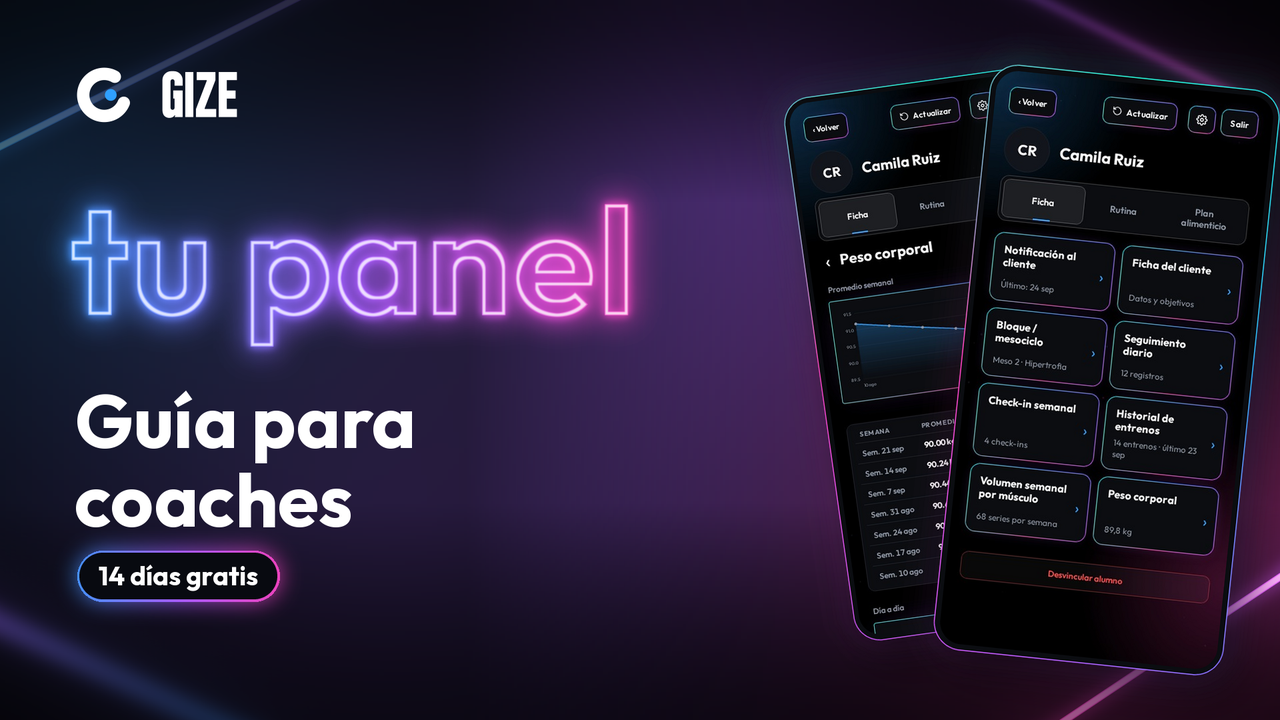
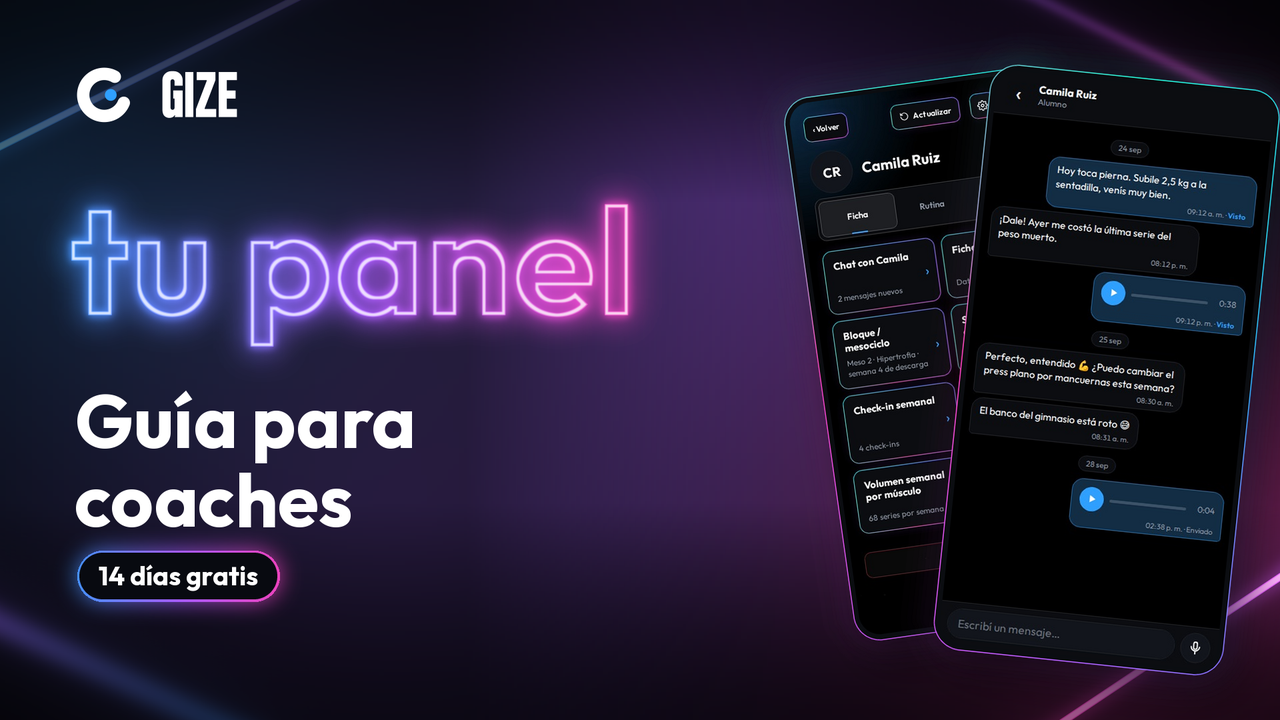
Guías de YouTube: chat coach–alumno, explicación de voz, duplicar día, bienvenida y rutinas armadas; miniaturas con el chat
Claude-Session: https://claude.ai/code/session_01XgazYx4e7Y9eR8BozjHA6b

Changed region(s): [[0.625, 0.0917, 1.0, 0.9167]]

diff --git a/piezas/youtube-guia/grabacion/mock_alumno.js b/piezas/youtube-guia/grabacion/mock_alumno.js
@@ -1,17 +1,17 @@
-// Supabase simulado para grabar el panel de coach sin tocar la base real.
+// Supabase simulado: un alumno CON coach (para mostrar el chat y la explicación de voz). Datos ficticios.
 // Datos 100 % ficticios: un coach de ejemplo y seis atletas.
 const SB = 'https://wegptuzhsrwppbknqstf.supabase.co';
 const COACH = '11111111-1111-4111-8111-111111111111';
 const CL = ['a1','a2','a3','a4','a5','a6'].map((s, i) => `2222222${i}-2222-4222-8222-22222222222${i}`);
 const NAMES = ['Lucas Fernández', 'Sofía Martínez', 'Tomás Acosta', 'Valentina Gómez', 'Nicolás Paz', 'Camila Ruiz'];
-const TODAY = new Date('2026-09-25T12:00:00');
-const iso = d => d.toISOString().slice(0, 10);
+const TODAY = new Date(); TODAY.setHours(12, 0, 0, 0);
+const iso = d => d.getFullYear() + '-' + String(d.getMonth() + 1).padStart(2, '0') + '-' + String(d.getDate()).padStart(2, '0');
 const daysAgo = n => { const d = new Date(TODAY); d.setDate(d.getDate() - n); return d; };
 
 function b64url(o) { return Buffer.from(JSON.stringify(o)).toString('base64').replace(/=+$/, '').replace(/\+/g, '-').replace(/\//g, '_'); }
 const EXP = Math.floor(Date.now() / 1000) + 3600 * 24 * 30;
-const JWT = b64url({ alg: 'HS256', typ: 'JWT' }) + '.' + b64url({ sub: COACH, role: 'authenticated', exp: EXP, aud: 'authenticated', email: 'coach@ejemplo.com' }) + '.firma';
-const USER = { id: COACH, aud: 'authenticated', role: 'authenticated', email: 'coach@ejemplo.com', created_at: '2026-08-01T10:00:00Z', app_metadata: { provider: 'email' }, user_metadata: { full_name: 'Martina Ríos', role: 'coach' }, identities: [] };
+const JWT = b64url({ alg: 'HS256', typ: 'JWT' }) + '.' + b64url({ sub: CL[0], role: 'authenticated', exp: EXP, aud: 'authenticated', email: 'lucas@ejemplo.com' }) + '.firma';
+const USER = { id: CL[0], aud: 'authenticated', role: 'authenticated', email: 'lucas@ejemplo.com', created_at: '2026-08-01T10:00:00Z', app_metadata: { provider: 'email' }, user_metadata: { full_name: 'Lucas Fernández', role: 'client' }, identities: [] };
 const SESSION = { access_token: JWT, token_type: 'bearer', expires_in: 3600 * 24 * 30, expires_at: EXP, refresh_token: 'demo', user: USER };
 
 
@@ -31,7 +31,7 @@ function chatFor(id, ci, name) {
 function buildDB(defaultDays, pplDays) {
   const days = JSON.parse(JSON.stringify(defaultDays));
   // links de video en varios ejercicios (como los carga el coach)
-  days.forEach(d => (d.exercises || []).forEach((e, i) => { if (i % 2 === 0) e.video = 'https://youtu.be/k7Qx2LmVb9s'; if (i === 1) { e.audio = `${COACH}/ex/voz${d.id || 'd'}explica`.replace(/[^A-Za-z0-9_/-]/g, '') + '.webm'; e.audioSecs = 42; } }));
+  days.forEach(d => (d.exercises || []).forEach((e, i) => { if (i % 2 === 0) e.video = 'https://youtu.be/k7Qx2LmVb9s'; if (i === 0) { e.audio = `${COACH}/ex/voz${d.id || 'd'}explica`.replace(/[^A-Za-z0-9_/-]/g, '') + '.webm'; e.audioSecs = 42; } }));
   const db = {
     profiles: [{ id: COACH, full_name: 'Martina Ríos', email: 'coach@ejemplo.com', role: 'coach', coach_id: null, avatar_path: null }]
       .concat(CL.map((id, i) => ({ id, full_name: NAMES[i], email: NAMES[i].split(' ')[0].toLowerCase().normalize('NFD').replace(/[̀-ͯ]/g, '') + '@ejemplo.com', role: 'client', coach_id: COACH, avatar_path: null }))),
@@ -43,7 +43,7 @@ function buildDB(defaultDays, pplDays) {
     ],
     coach_questions: [{ coach_id: COACH, daily: null, checkin: null }],
     routines: [], sessions: [], body_weights: [], daily_logs: [], checkins: [], client_info: [], blocks: [], nutrition: [],
-    checkin_photos: [], coach_messages: [], client_prefs: [], food_entries: [], routine_schedule: [],
+    checkin_photos: [], coach_messages: [], client_prefs: [], food_entries: [],
   };
   const lastByClient = [0, 1, 0, 3, 9, 2];
   const nByClient = [22, 18, 31, 9, 4, 14];
@@ -74,14 +74,14 @@ function buildDB(defaultDays, pplDays) {
       const kg = (78 + ci * 2.4) - (45 - k) * 0.045 * (ci % 2 ? -0.6 : 1) + Math.sin(k * 1.7) * 0.35;
       db.body_weights.push({ id: `w${ci}-${k}`, client_id: id, measured_on: iso(daysAgo(44 - k)), kg: Math.round(kg * 10) / 10 });
     }
-    for (let k = 0; k < 12; k++) db.daily_logs.push({ client_id: id, log_date: iso(daysAgo(k)), soreness: 'Poco', performance: k % 3 ? 'Bueno' : 'Muy bueno', motivation: 'Alta', hunger: 'Moderada', fatigue: 'Poco', sleep: 'Buena', steps: 9000 + (k * 731) % 3000, comment: k === 0 ? 'Hoy me sentí muy fuerte en pierna.' : '', answers: {} });
+    for (let k = 0; k < 12; k++) db.daily_logs.push({ client_id: id, log_date: iso(daysAgo(k)), soreness: 'Poco', performance: k % 3 ? 'Bueno' : 'Muy bueno', motivation: 'Alta', hunger: 'Moderada', fatigue: 'Poco', sleep: 'Buena', steps: 9000 + (k * 731) % 3000, water_ml: 1500 + (k % 3) * 500, habits_done: [], comment: k === 0 ? 'Hoy me sentí muy fuerte en pierna.' : '', answers: {} });
     for (let k = 0; k < 4; k++) {
       const ws = daysAgo(7 * k + ((TODAY.getDay() + 6) % 7));
       db.checkins.push({ client_id: id, week_start: iso(ws), adherence: 9 - (k % 2), answers: {
         q1: 'Subí 2,5 kg en el press inclinado y no fallé ningún entreno.', q2: 'Progresé en casi todo. Sin molestias.', q3: 'Sí, llego descansado a cada sesión.',
         q4: 'Promedio 10.500 pasos y 3 cardios.', q5: 'Cumplí el plan, una comida libre el sábado.', q7: 'Duermo 7 h, estrés bajo.', q10: 'Sí, me veo más definido.' } });
     }
-    db.nutrition.push({ client_id: id, kcal: 2300, protein: 180, carbs: 240, fat: 70, notes: '', plan: {
+    db.nutrition.push({ client_id: id, kcal: 1820, protein: 130, carbs: 230, fat: 50, notes: '', plan: {
       trainDays: [
         { meal: 'Desayuno', time: '08:00', kcal: 520, cho: 60, fat: 15, prot: 35, note: 'Avena + claras' },
         { meal: 'Almuerzo', time: '13:00', kcal: 650, cho: 70, fat: 18, prot: 50, note: '' },
@@ -93,9 +93,24 @@ function buildDB(defaultDays, pplDays) {
                 { title: 'Almuerzo', opts: [{ label: 'Opción A', body: '200 g de pollo\n150 g de arroz\nEnsalada libre' }] }],
       extras: [], swaps: [{ from: '100 g de arroz', to: '120 g de papa' }, { from: '200 g de pollo', to: '220 g de merluza' }],
       cardio: { text: '3 × 30 min zona 2', items: [] }, habits: ['10.000 pasos', 'Dormir 7 h'] } });
-    db.routine_schedule.push({ id: 's' + ci, client_id: id, starts_on: iso(daysAgo(-10)), name: 'Meso 3 · Fuerza', days: pplDays, applied_at: null });
     db.coach_messages.push(...chatFor(id, ci, NAMES[ci]));
   });
+  const F = (meal, name, grams, kcal, p, c, f) => ({ meal, name, grams, kcal, protein: p, carbs: c, fat: f, unit: 'g' });
+  const DAYS = [
+    [F('desayuno', 'Pan lactal blanco', 50, 132, 4.5, 24.5, 1.5), F('desayuno', 'Huevo entero', 100, 156, 12, 0.4, 11.8),
+     F('almuerzo', 'Pechuga de pollo a la plancha', 200, 330, 62, 0, 7.2), F('almuerzo', 'Arroz blanco cocido', 150, 195, 4, 42, 0.5),
+     F('merienda', 'Yogur griego natural', 170, 165, 17, 6, 8), F('merienda', 'Banana', 120, 107, 1.3, 27, 0.4),
+     F('merienda', 'Almendras', 25, 145, 5.3, 5.4, 12.5)],
+    [F('desayuno', 'Avena', 60, 227, 8, 40, 4), F('desayuno', 'Leche descremada', 250, 90, 8.5, 12.5, 0.5),
+     F('almuerzo', 'Carne magra (nalga)', 180, 270, 50, 0, 7), F('almuerzo', 'Papa hervida', 250, 215, 5, 50, 0.3),
+     F('merienda', 'Tostadas de arroz', 30, 115, 2.4, 24, 0.9), F('merienda', 'Queso untable light', 40, 64, 5, 2, 4),
+     F('cena', 'Merluza al horno', 200, 180, 36, 0, 3), F('cena', 'Ensalada de tomate y lechuga', 200, 40, 2, 8, 0.4), F('cena', 'Aceite de oliva', 10, 88, 0, 0, 10)],
+    [F('desayuno', 'Tostadas integrales', 60, 150, 7, 27, 2), F('desayuno', 'Palta', 50, 80, 1, 4, 7.5),
+     F('almuerzo', 'Fideos cocidos', 200, 262, 9.6, 52, 1.8), F('almuerzo', 'Carne picada magra', 120, 186, 26, 0, 9),
+     F('merienda', 'Manzana', 180, 94, 0.5, 25, 0.3), F('cena', 'Pollo al horno', 180, 297, 49, 0, 11), F('cena', 'Calabaza al horno', 200, 90, 2, 21, 0.2)],
+  ];
+  db.food_entries = [];
+  DAYS.forEach((items, d) => items.forEach((it, i) => db.food_entries.push(Object.assign({ id: `f${d}-${i}`, client_id: CL[0], log_date: iso(daysAgo(d)), pos: i }, it))));
   return db;
 }
 
@@ -145,12 +160,12 @@ async function install(ctx, page) {
     if (p.startsWith('/functions/v1/')) return json({ ok: true, delivered: 1, saved: true, id: 'srv-' + Date.now(), created_at: new Date().toISOString() });
     if (p.startsWith('/rest/v1/rpc/')) {
       const fn = p.split('/').pop();
-      if (fn === 'chat_unread') return json([{ client_id: CL[5], n: 2 }, { client_id: CL[1], n: 1 }]);
+      if (fn === 'chat_unread') return json([{ client_id: CL[0], n: 2 }]);
       if (fn === 'chat_mark_read') return json(null);
       if (fn === 'my_invite_code') return json('C8E2BD');
       if (fn === 'coach_client_stats') return json(STATS());
       if (fn === 'client_push_devices') return json(1);
-      if (fn === 'my_coach_name') return json(null);
+      if (fn === 'my_coach_name') return json('Martina Ríos');
       return json(null);
     }
     if (p.startsWith('/rest/v1/')) {

diff --git a/piezas/youtube-guia/grabacion/guia_coach.js b/piezas/youtube-guia/grabacion/guia_coach.js
@@ -13,8 +13,9 @@ const mock = require('./mock');
   const closePl = () => quiet(async () => { await scrollTo(0, 10); await click('[data-coach="plsec-close"]'); await wait(500); });
 
   await scene('panel', async () => {
-    mark('Tu panel: todos tus alumnos en una lista.'); await wait(2000);
-    mark('Cada uno con su última actividad: activo, ayer, hace días.'); await scrollTo(430, 1800); await wait(1600); await scrollTo(0, 1400);
+    mark('Tu panel: todos tus alumnos en una lista, con su mail.'); await wait(2000);
+    mark('Un globito te avisa quién te escribió.'); await point('.co-trow', 0, 1600);
+    mark('Y ves su última actividad: activo, ayer, hace días.'); await scrollTo(430, 1800); await wait(1600); await scrollTo(0, 1400);
     mark('Y buscás a cualquiera por su nombre.'); await type('[data-coach="coach-search"]', 'Sof'); await wait(1600);
     await quiet(async () => { const h = await A.page.$('[data-coach="coach-search"]'); await h.fill(''); await h.dispatchEvent('input'); await wait(400); });
   });
@@ -39,12 +40,12 @@ const mock = require('./mock');
     mark('Tocás un alumno y se abre su ficha, en secciones.'); await tap('.co-trow[data-coach="open"]', 0, { after: 2200 });
     mark('Arriba: Ficha, Rutina y Plan alimenticio.'); await point('[data-coach="client-tab"][data-t="rutina"]', 0, 900); await point('[data-coach="client-tab"][data-t="plan"]', 0, 1200);
   });
-  await scene('notif', async () => {
-    mark('Notificación: le escribís y le llega al celular al instante.'); await openSec('notif');
-    await type('[data-coach="nt-text"]', 'Mañana subimos 2,5 kg en sentadilla 💪'); await tap('[data-coach="nt-send"]', 0, { after: 1400 });
-    mark('Y ves si le llegó, con el historial de mensajes.'); await point('.nt-msg-meta', 0, 2000);
+  await scene('chat', async () => {
+    mark('Chat con cada alumno: mensajes y audios, en los dos sentidos.'); await tap('[data-coach="sec-open"][data-v="chat"]', 0, { after: 2200 });
+    mark('Le respondés al toque…'); await type('#chatText', 'Sí, dale: press con mancuernas, mismas series y reps.'); await tap('#chatHost [data-chat="send"]', 0, { after: 1400 });
+    mark('…o le grabás un audio, y ves cuándo lo escuchó.'); await tap('#chatHost [data-chat="rec"]', 0, { after: 2600 }); await tap('#chatHost [data-chat="rec-send"]', 0, { after: 1800 });
   });
-  await closeSec();
+  await quiet(async () => { await click('#chatHost [data-chat="close"]'); await wait(600); });
   await scene('datos', async () => {
     mark('Ficha del cliente: datos personales, lesiones y pasos.'); await openSec('ficha'); await wait(1000);
     mark('Contexto de entrenamiento: disponibilidad, etapa y compromiso.'); await scrollTo(380, 1800); await wait(1400);
@@ -86,6 +87,7 @@ const mock = require('./mock');
     mark('En Rutina armás el entrenamiento de cada alumno.'); await tap('[data-coach="client-tab"][data-t="rutina"]', 0, { after: 1600 });
     mark('Organizado por días: les ponés nombre, notas y los reordenás.'); await scrollToSel('[data-coach="edit-day"]', 200, 1400); await tap('[data-coach="edit-day"]', 1, { after: 1200 }); await tap('[data-coach="edit-day"]', 0, { after: 1000 });
     await point('[data-coach="day-right"]', 0, 1200);
+    mark('Y duplicás un día para no armarlo de cero.'); await point('[data-coach="day-dup"]', 0, 1800);
     mark('Cada día con su lista de ejercicios.'); await scrollToSel('.co-exc', 300, 1600); await wait(1600);
   });
   await scene('ejercicio', async () => {
@@ -94,6 +96,8 @@ const mock = require('./mock');
     mark('Rango de repeticiones, peso objetivo, RIR y descanso.'); await wait(2400);
     mark('Nota para el alumno y el link al video de técnica.'); await scrollToSel('.co-exc-open details.co-exc-fold', 300, 1200);
     await tap('.co-exc-open details.co-exc-fold summary', 0, { after: 700 }); await type('.co-exc-open [data-coach="rt-video"]', 'https://youtu.be/k7Qx2LmVb9s'); await wait(1400);
+    mark('Y le grabás una explicación de voz: la escucha en el ejercicio.'); await scrollToSel('.co-exc-open [data-coach="ea-rec"]', 380, 1000);
+    await tap('.co-exc-open [data-coach="ea-rec"]', 0, { after: 2400 }); await tap('.co-exc-open [data-coach="ea-stop"]', 0, { after: 1600 });
   });
   await scene('progresion', async () => {
     mark('La sugerencia automática le propone el peso de la próxima serie.'); await scrollToSel('[data-coach="rt-nosug-all"]', 400, 1400); await point('[data-coach="rt-nosug-all"]', 0, 1800);

diff --git a/piezas/youtube-guia/grabacion/guia_bienvenida.js b/piezas/youtube-guia/grabacion/guia_bienvenida.js
@@ -1,0 +1,30 @@
+// Guía · primeros pasos de un usuario nuevo sin coach: bienvenida, armar la semana y rutinas armadas.
+// Se graba aparte (cuenta recién creada, sin rutina) para no tocar los datos de las demás escenas.
+process.env.NUEVO = '1';
+const path = require('path');
+const { start } = require('./lib');
+const mock = require('./mock_solo');
+
+(async () => {
+  const A = await start({ mock, out: path.join(__dirname, 'frames', 'solo'), extraCss: '.ex-note,.daynotes{display:none!important}' });
+  const { mark, wait, tap, type, scene } = A;
+  await scene('bienvenida', async () => {
+    mark('La primera vez que entrás, GIZE te da la bienvenida.'); await wait(2200);
+    await tap('[data-onb="start"]', 0, { after: 1200 });
+    mark('Si tenés un coach, ponés su código. Si no, entrenás por tu cuenta.'); await wait(1400);
+    await tap('[data-onb="solo"]', 0, { after: 1200 });
+    mark('Elegís cómo arrancar: vacío o con una rutina armada.'); await wait(1600);
+  });
+  await scene('semana', async () => {
+    mark('Con «Empezar vacío» armás tu semana en 3 pasos.'); await tap('[data-onb="start"][data-v="vacio"]', 0, { after: 600 }); await tap('[data-onb="next"]', 0, { after: 1200 });
+    mark('Cuántos días vas a entrenar…'); await tap('[data-onb="days"][data-v="4"]', 0, { after: 900 }); await tap('[data-onb="wnext"]', 0, { after: 1100 });
+    mark('…tu objetivo…'); await tap('[data-onb="goal"]', 0, { after: 900 }); await tap('[data-onb="wnext"]', 0, { after: 1100 });
+    mark('…y el nombre de tu primer día. Listo, ya tenés tu semana.'); await type('#onbFirst', 'Torso'); await tap('[data-onb="wnext"]', 0, { after: 2200 });
+  });
+  await scene('rutinas-armadas', async () => {
+    mark('¿No sabés qué hacer? Tenés rutinas armadas.'); await tap('[data-action="open-routines"]', 0, { after: 1300 });
+    mark('Elegís para quién son y te muestra las que van con vos.'); await tap('[data-onb="sex"][data-v="m"]', 0, { after: 1800 });
+    mark('Tocás una y queda cargada, lista para entrenar.'); await tap('[data-onb="pick"]', 0, { after: 2600 });
+  });
+  await A.done();
+})();

diff --git a/piezas/youtube-guia/grabacion/mock_solo.js b/piezas/youtube-guia/grabacion/mock_solo.js
@@ -10,7 +10,7 @@ const daysAgo = n => { const d = new Date(TODAY); d.setDate(d.getDate() - n); re
 function b64url(o) { return Buffer.from(JSON.stringify(o)).toString('base64').replace(/=+$/, '').replace(/\+/g, '-').replace(/\//g, '_'); }
 const EXP = Math.floor(Date.now() / 1000) + 3600 * 24 * 30;
 const JWT = b64url({ alg: 'HS256', typ: 'JWT' }) + '.' + b64url({ sub: CL[0], role: 'authenticated', exp: EXP, aud: 'authenticated', email: 'lucas@ejemplo.com' }) + '.firma';
-const USER = { id: CL[0], aud: 'authenticated', role: 'authenticated', email: 'lucas@ejemplo.com', created_at: '2026-08-01T10:00:00Z', app_metadata: { provider: 'email' }, user_metadata: { full_name: 'Lucas Fernández', role: 'client' }, identities: [] };
+const USER = { id: CL[0], aud: 'authenticated', role: 'authenticated', email: 'lucas@ejemplo.com', created_at: process.env.NUEVO ? new Date(Date.now() - 86400000).toISOString() : '2026-08-01T10:00:00Z', app_metadata: { provider: 'email' }, user_metadata: { full_name: 'Lucas Fernández', role: 'client' }, identities: [] };
 const SESSION = { access_token: JWT, token_type: 'bearer', expires_in: 3600 * 24 * 30, expires_at: EXP, refresh_token: 'demo', user: USER };
 
 function buildDB(defaultDays, pplDays) {
@@ -97,6 +97,7 @@ function buildDB(defaultDays, pplDays) {
   db.food_entries = [];
   DAYS.forEach((items, d) => items.forEach((it, i) => db.food_entries.push(Object.assign({ id: `f${d}-${i}`, client_id: CL[0], log_date: iso(daysAgo(d)), pos: i }, it))));
   db.profiles.forEach(p => { if (p.id === CL[0]) p.coach_id = null; });
+  if (process.env.NUEVO) ['routines', 'sessions', 'body_weights', 'daily_logs', 'food_entries'].forEach(t => { db[t] = (db[t] || []).filter(r => r.client_id !== CL[0]); });
   ['coach_messages', 'checkins', 'nutrition', 'blocks', 'client_info'].forEach(t => { db[t] = (db[t] || []).filter(r => r.client_id !== CL[0]); });
   return db;
 }

diff --git a/piezas/youtube-guia/grabacion/guia_alumno.js b/piezas/youtube-guia/grabacion/guia_alumno.js
@@ -1,0 +1,20 @@
+// Guía · lo que ve el alumno de un coach: el chat y la explicación de voz en el ejercicio.
+const path = require('path');
+const { start } = require('./lib');
+const mock = require('./mock_alumno');
+
+(async () => {
+  const A = await start({ mock, out: path.join(__dirname, 'frames', 'coach') });
+  const { mark, wait, tap, point, type, scene, quiet } = A;
+  await scene('chat-alumno', async () => {
+    mark('Tu alumno tiene el chat arriba, con neón azul que late si hay mensajes nuevos.'); await point('#chatBtn', 0, 1600);
+    await tap('#chatBtn', 0, { after: 1800 });
+    mark('Te escribe o te manda audios cuando quiera.'); await type('#chatText', 'Buenísimo, gracias. ¡Mañana te cuento!'); await tap('#chatHost [data-chat="send"]', 0, { after: 1800 });
+  });
+  await quiet(async () => { await A.page.evaluate(() => document.querySelector('#chatHost [data-chat="close"]')?.click()); await wait(700); });
+  await scene('voz-alumno', async () => {
+    mark('Y en cada ejercicio escucha tu explicación de voz.'); await point('[data-action*="audio"], .ex-audio, [class*="ex-audio"]', 0, 2000);
+    await wait(1200);
+  });
+  await A.done();
+})();

diff --git a/piezas/youtube-guia/grabacion/lib.js b/piezas/youtube-guia/grabacion/lib.js
@@ -8,8 +8,9 @@ const ease = t => t < .5 ? 4 * t * t * t : 1 - Math.pow(-2 * t + 2, 3) / 2;
 async function start({ mock, out, extraCss = '' }) {
   const BASE = process.env.BASE || 'http://localhost:8766';
   const ONLY = process.argv.slice(2);
-  const browser = await chromium.launch();
+  const browser = await chromium.launch({ args: ['--use-fake-ui-for-media-stream', '--use-fake-device-for-media-stream'] });
   const { page, ctx } = await setupPage(browser, { serviceWorkers: 'block' });
+  await ctx.grantPermissions(['microphone'], { origin: BASE }).catch(() => {});
   page.on('pageerror', e => console.log('ERR', e.message));
   page.on('dialog', d => d.accept().catch(() => {}));
   await page.goto(BASE + '/privacidad/');

diff --git a/piezas/youtube-guia/guia.py b/piezas/youtube-guia/guia.py
@@ -30,28 +30,28 @@ LEAD, TAIL, XF = int(0.8 * FPS), int(1.0 * FPS), 8        # antes y después de 
 SPEED = 2.0                                                 # la grabación va al doble de velocidad…
 READ0, READ_LINE = 1.4, 0.45                                # …pero cada explicación queda al menos esto en pantalla (s)
 
-SOLO = [('rutina', 'Tu rutina'), ('entrenar', 'Entrenar'), ('descanso', 'Descanso'), ('ejercicios', 'Cambiar y agregar ejercicios'),
+SOLO = [('bienvenida', 'Bienvenida'), ('semana', 'Armá tu semana'), ('rutinas-armadas', 'Rutinas armadas'), ('rutina', 'Tu rutina'), ('entrenar', 'Entrenar'), ('descanso', 'Descanso'), ('ejercicios', 'Cambiar y agregar ejercicios'),
         ('finalizar', 'Finalizar el entreno'), ('progreso', 'Progreso'), ('peso', 'Peso corporal'), ('registro', 'Registro de hoy'),
         ('checkin', 'Check-in semanal'), ('historial', 'Historial de entrenos'), ('volumen', 'Volumen semanal'),
         ('meta', 'Tu meta de calorías'), ('comida', 'Registrar comidas'), ('escaner', 'Escáner y alimentos propios'),
         ('dias', 'Otros días'), ('agua', 'Agua'), ('habitos', 'Hábitos'), ('cardio', 'Cardio'), ('racha', 'Racha'), ('ajustes', 'Ajustes')]
 COACH = [('panel', 'Tu panel'), ('codigo', 'Código de invitación'), ('suscripcion', 'Tu plan'), ('plantillas', 'Plantillas de rutinas'),
-         ('alumno', 'La ficha del alumno'), ('notif', 'Mensajes al celular'), ('datos', 'Datos y objetivos'), ('bloque', 'Bloque / mesociclo'),
+         ('alumno', 'La ficha del alumno'), ('chat', 'Chat con tu alumno'), ('chat-alumno', 'El chat del alumno'), ('datos', 'Datos y objetivos'), ('bloque', 'Bloque / mesociclo'),
          ('diario', 'Seguimiento diario'), ('checkin', 'Check-in semanal'), ('historial', 'Historial de entrenos'),
-         ('volumen', 'Volumen semanal'), ('peso', 'Peso corporal'), ('rutina', 'Armar la rutina'), ('ejercicio', 'Series y detalles'),
+         ('volumen', 'Volumen semanal'), ('peso', 'Peso corporal'), ('rutina', 'Armar la rutina'), ('ejercicio', 'Series, video y voz'), ('voz-alumno', 'Tu voz en su entreno'),
          ('progresion', 'Progresión y superseries'), ('programada', 'Rutinas programadas'), ('plan-dias', 'Plan alimenticio'),
          ('plan-indicaciones', 'Hidratación e indicaciones'), ('plan-menu', 'Personalización del menú'), ('plan-cardio', 'Cardio y hábitos'),
          ('preguntas', 'Tus preguntas'), ('ajustes', 'Configuración')]
 
 # capítulos de YouTube: cada función pertenece a un tema
-CHAP = {'solo': {'rutina': 'Entrenar', 'entrenar': 'Entrenar', 'descanso': 'Entrenar', 'ejercicios': 'Entrenar', 'finalizar': 'Entrenar',
+CHAP = {'solo': {'bienvenida': 'Primeros pasos', 'semana': 'Primeros pasos', 'rutinas-armadas': 'Primeros pasos', 'rutina': 'Entrenar', 'entrenar': 'Entrenar', 'descanso': 'Entrenar', 'ejercicios': 'Entrenar', 'finalizar': 'Entrenar',
                  'progreso': 'Progreso', 'peso': 'Progreso', 'registro': 'Progreso', 'checkin': 'Progreso', 'historial': 'Progreso', 'volumen': 'Progreso',
                  'meta': 'Comida y calorías', 'comida': 'Comida y calorías', 'escaner': 'Comida y calorías', 'dias': 'Comida y calorías', 'agua': 'Comida y calorías',
                  'habitos': 'Hábitos, cardio y racha', 'cardio': 'Hábitos, cardio y racha', 'racha': 'Hábitos, cardio y racha', 'ajustes': 'Ajustes'},
         'coach': {'panel': 'Tu panel, alumnos y plantillas', 'codigo': 'Tu panel, alumnos y plantillas', 'suscripcion': 'Tu panel, alumnos y plantillas', 'plantillas': 'Tu panel, alumnos y plantillas',
-                  'alumno': 'La ficha del alumno', 'notif': 'La ficha del alumno', 'datos': 'La ficha del alumno', 'bloque': 'La ficha del alumno',
+                  'alumno': 'Tu panel, alumnos y plantillas', 'chat': 'Chat con tus alumnos', 'chat-alumno': 'Chat con tus alumnos', 'datos': 'La ficha del alumno', 'bloque': 'La ficha del alumno',
                   'diario': 'Seguimiento del alumno', 'checkin': 'Seguimiento del alumno', 'historial': 'Seguimiento del alumno', 'volumen': 'Seguimiento del alumno', 'peso': 'Seguimiento del alumno',
-                  'rutina': 'Armar la rutina', 'ejercicio': 'Armar la rutina', 'progresion': 'Armar la rutina', 'programada': 'Armar la rutina',
+                  'rutina': 'Armar la rutina', 'ejercicio': 'Armar la rutina', 'voz-alumno': 'Armar la rutina', 'progresion': 'Armar la rutina', 'programada': 'Armar la rutina',
                   'plan-dias': 'Plan alimenticio', 'plan-indicaciones': 'Plan alimenticio', 'plan-menu': 'Plan alimenticio', 'plan-cardio': 'Plan alimenticio',
                   'preguntas': 'Preguntas y configuración', 'ajustes': 'Preguntas y configuración'}}
 

diff --git a/piezas/youtube-guia/miniaturas.py b/piezas/youtube-guia/miniaturas.py
@@ -76,6 +76,6 @@ def make(name, word, word_size, head, sub, phones):
 make('usuarios', 'gratis', 300, ['Guía de', 'la app'], 'Sin coach · sin pagar',
      [(shot('solo', 'entrenar', .92), 820, 8, 1430, 530), (shot('solo', 'comida'), 880, -6, 1650, 555)])
 make('coach', 'tu panel', 230, ['Guía para', 'coaches'], '14 días gratis',
-     [(shot('coach', 'peso', .35), 820, 8, 1430, 530), (shot('coach', 'alumno', .45), 880, -6, 1660, 555)])
+     [(shot('coach', 'alumno', .45), 820, 8, 1430, 530), (shot('coach', 'chat'), 880, -6, 1660, 555)])
 make('completa', 'todo', 300, ['Guía', 'completa'], 'Usuarios + coaches',
-     [(shot('solo', 'comida'), 820, 8, 1430, 530), (shot('coach', 'alumno', .45), 880, -6, 1660, 555)])
+     [(shot('solo', 'comida'), 820, 8, 1430, 530), (shot('coach', 'chat'), 880, -6, 1660, 555)])
